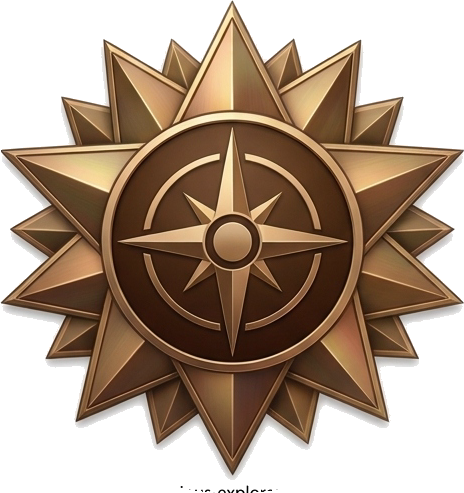
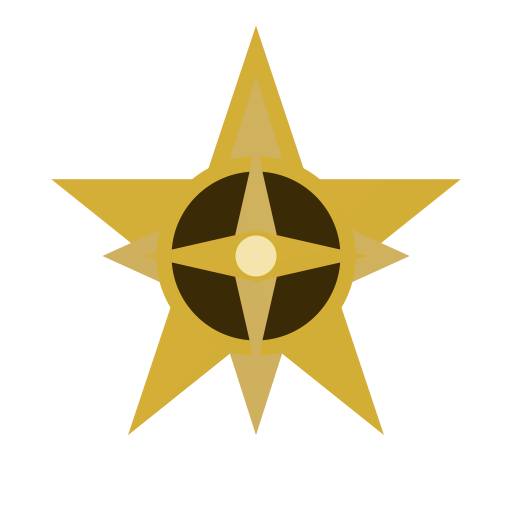
feat: rebuild all badges in pure SVG without fragments

diff --git a/src/components/certificate/BadgeSVGs.jsx b/src/components/certificate/BadgeSVGs.jsx
@@ -1,0 +1,170 @@
+import React from "react";
+
+const dropShadowFilter = (
+  <filter id="badge-shadow" x="-20%" y="-20%" width="140%" height="140%">
+    <feDropShadow dx="0" dy="4" stdDeviation="4" floodColor="#000000" floodOpacity="0.4" />
+  </filter>
+);
+
+const bevelFilter = (
+  <filter id="badge-bevel" x="-20%" y="-20%" width="140%" height="140%">
+    <feGaussianBlur in="SourceAlpha" stdDeviation="2" result="blur" />
+    <feOffset dx="-2" dy="-2" result="offsetBlur" />
+    <feSpecularLighting in="blur" surfaceScale="5" specularConstant="1" specularExponent="20" lightingColor="#ffffff" result="specOut">
+      <fePointLight x="-50" y="-50" z="200" />
+    </feSpecularLighting>
+    <feComposite in="specOut" in2="SourceAlpha" operator="in" result="specOut" />
+    <feComposite in="SourceGraphic" in2="specOut" operator="arithmetic" k1="0" k2="1" k3="1" k4="0" />
+  </filter>
+);
+
+export const CuriousExplorerSVG = (props) => (
+  <svg viewBox="0 0 100 100" fill="none" xmlns="http://www.w3.org/2000/svg" {...props}>
+    <defs>
+      {dropShadowFilter}
+      <linearGradient id="bronze-grad" x1="0" y1="0" x2="100" y2="100">
+        <stop offset="0%" stopColor="#D4AF37" />
+        <stop offset="50%" stopColor="#aa7c11" />
+        <stop offset="100%" stopColor="#5c430a" />
+      </linearGradient>
+      <linearGradient id="bronze-light" x1="100" y1="0" x2="0" y2="100">
+        <stop offset="0%" stopColor="#F3E5AB" />
+        <stop offset="100%" stopColor="#aa7c11" />
+      </linearGradient>
+    </defs>
+    <g filter="url(#badge-shadow)">
+      {/* 8-point outer star */}
+      <polygon points="50,5 60,35 90,35 65,55 75,85 50,65 25,85 35,55 10,35 40,35" fill="url(#bronze-grad)" />
+      {/* 8-point inner offset star */}
+      <polygon points="50,15 58,40 80,50 58,60 50,85 42,60 20,50 42,40" fill="url(#bronze-light)" />
+      {/* Center compass ring */}
+      <circle cx="50" cy="50" r="18" fill="#3a2a06" stroke="url(#bronze-grad)" strokeWidth="3" />
+      {/* Compass needle */}
+      <polygon points="50,28 55,50 50,72 45,50" fill="url(#bronze-light)" />
+      <polygon points="28,50 50,45 72,50 50,55" fill="url(#bronze-grad)" />
+      <circle cx="50" cy="50" r="4" fill="#F3E5AB" />
+    </g>
+  </svg>
+);
+
+export const CommonwealthTravellerSVG = (props) => (
+  <svg viewBox="0 0 100 100" fill="none" xmlns="http://www.w3.org/2000/svg" {...props}>
+    <defs>
+      {dropShadowFilter}
+      <linearGradient id="silver-grad" x1="0" y1="0" x2="100" y2="100">
+        <stop offset="0%" stopColor="#E0E0E0" />
+        <stop offset="50%" stopColor="#9E9E9E" />
+        <stop offset="100%" stopColor="#424242" />
+      </linearGradient>
+      <radialGradient id="green-glow" cx="50" cy="50" r="50">
+        <stop offset="70%" stopColor="#87B940" />
+        <stop offset="100%" stopColor="#4a691f" />
+      </radialGradient>
+    </defs>
+    <g filter="url(#badge-shadow)">
+      <circle cx="50" cy="50" r="46" fill="#222" stroke="url(#silver-grad)" strokeWidth="4" />
+      <circle cx="50" cy="50" r="36" fill="none" stroke="url(#green-glow)" strokeWidth="12" />
+      <circle cx="50" cy="50" r="22" fill="none" stroke="url(#silver-grad)" strokeWidth="2" />
+      {/* Spokes */}
+      {[0, 45, 90, 135, 180, 225, 270, 315].map((angle, i) => (
+        <line
+          key={i}
+          x1="50" y1="50"
+          x2={50 + 36 * Math.cos((angle * Math.PI) / 180)}
+          y2={50 + 36 * Math.sin((angle * Math.PI) / 180)}
+          stroke="url(#silver-grad)" strokeWidth="3"
+        />
+      ))}
+      <circle cx="50" cy="50" r="8" fill="url(#silver-grad)" />
+      <circle cx="50" cy="50" r="3" fill="#222" />
+    </g>
+  </svg>
+);
+
+export const GlobalNavigatorSVG = (props) => (
+  <svg viewBox="0 0 100 100" fill="none" xmlns="http://www.w3.org/2000/svg" {...props}>
+    <defs>
+      {dropShadowFilter}
+      <linearGradient id="blue-grad" x1="0" y1="0" x2="0" y2="100">
+        <stop offset="0%" stopColor="#87CEEB" />
+        <stop offset="100%" stopColor="#1C4B82" />
+      </linearGradient>
+      <linearGradient id="silver-grad2" x1="0" y1="0" x2="100" y2="100">
+        <stop offset="0%" stopColor="#F5F5F5" />
+        <stop offset="50%" stopColor="#BDBDBD" />
+        <stop offset="100%" stopColor="#616161" />
+      </linearGradient>
+    </defs>
+    <g filter="url(#badge-shadow)">
+      {/* Hexagon */}
+      <polygon points="50,4 90,27 90,73 50,96 10,73 10,27" fill="url(#blue-grad)" stroke="url(#silver-grad2)" strokeWidth="5" strokeLinejoin="round" />
+      {/* Inner Globe */}
+      <circle cx="50" cy="50" r="30" fill="#112233" stroke="url(#silver-grad2)" strokeWidth="3" />
+      <ellipse cx="50" cy="50" rx="12" ry="30" fill="none" stroke="url(#silver-grad2)" strokeWidth="2" />
+      <ellipse cx="50" cy="50" rx="30" ry="12" fill="none" stroke="url(#silver-grad2)" strokeWidth="2" />
+      <line x1="50" y1="20" x2="50" y2="80" stroke="url(#silver-grad2)" strokeWidth="2" />
+      <line x1="20" y1="50" x2="80" y2="50" stroke="url(#silver-grad2)" strokeWidth="2" />
+    </g>
+  </svg>
+);
+
+export const WorldVoyagerSVG = (props) => (
+  <svg viewBox="0 0 100 100" fill="none" xmlns="http://www.w3.org/2000/svg" {...props}>
+    <defs>
+      {dropShadowFilter}
+      <linearGradient id="red-grad" x1="0" y1="0" x2="0" y2="100">
+        <stop offset="0%" stopColor="#D32F2F" />
+        <stop offset="100%" stopColor="#7F0000" />
+      </linearGradient>
+      <linearGradient id="silver-grad3" x1="0" y1="0" x2="100" y2="100">
+        <stop offset="0%" stopColor="#FFFFFF" />
+        <stop offset="50%" stopColor="#9E9E9E" />
+        <stop offset="100%" stopColor="#424242" />
+      </linearGradient>
+    </defs>
+    <g filter="url(#badge-shadow)">
+      {/* Shield */}
+      <path d="M 15 25 L 85 25 L 85 55 C 85 75 50 95 50 95 C 50 95 15 75 15 55 Z" fill="url(#red-grad)" stroke="url(#silver-grad3)" strokeWidth="5" strokeLinejoin="round" />
+      
+      {/* Crown sitting on top */}
+      <path d="M 25 22 L 35 5 L 50 15 L 65 5 L 75 22 Z" fill="url(#silver-grad3)" />
+      
+      {/* Stars */}
+      <polygon points="50,35 55,48 68,48 58,56 62,70 50,62 38,70 42,56 32,48 45,48" fill="url(#silver-grad3)" />
+      <circle cx="50" cy="50" r="22" fill="none" stroke="url(#silver-grad3)" strokeWidth="2" opacity="0.5" />
+    </g>
+  </svg>
+);
+
+export const GoldenExplorerSVG = (props) => (
+  <svg viewBox="0 0 100 100" fill="none" xmlns="http://www.w3.org/2000/svg" {...props}>
+    <defs>
+      {dropShadowFilter}
+      <linearGradient id="pure-gold" x1="0" y1="0" x2="100" y2="100">
+        <stop offset="0%" stopColor="#FFDF00" />
+        <stop offset="30%" stopColor="#D4AF37" />
+        <stop offset="70%" stopColor="#996515" />
+        <stop offset="100%" stopColor="#4A3B00" />
+      </linearGradient>
+      <radialGradient id="gold-glow" cx="50" cy="50" r="50">
+        <stop offset="0%" stopColor="#FFDF00" />
+        <stop offset="100%" stopColor="#8A5A19" />
+      </radialGradient>
+    </defs>
+    <g filter="url(#badge-shadow)">
+      {/* Hexagon */}
+      <polygon points="50,4 90,27 90,73 50,96 10,73 10,27" fill="url(#gold-glow)" stroke="url(#pure-gold)" strokeWidth="6" strokeLinejoin="round" />
+      
+      {/* Inner Globe elements */}
+      <circle cx="50" cy="50" r="32" fill="#2C1A00" stroke="url(#pure-gold)" strokeWidth="3" />
+      
+      {/* Lat/Long Gold wireframe */}
+      <ellipse cx="50" cy="50" rx="14" ry="32" fill="none" stroke="url(#pure-gold)" strokeWidth="2" />
+      <ellipse cx="50" cy="50" rx="32" ry="14" fill="none" stroke="url(#pure-gold)" strokeWidth="2" />
+      
+      {/* Center Emblem */}
+      <circle cx="50" cy="50" r="8" fill="url(#pure-gold)" />
+      <polygon points="50,42 53,48 60,48 55,52 57,58 50,55 43,58 45,52 40,48 47,48" fill="#2C1A00" />
+    </g>
+  </svg>
+);
